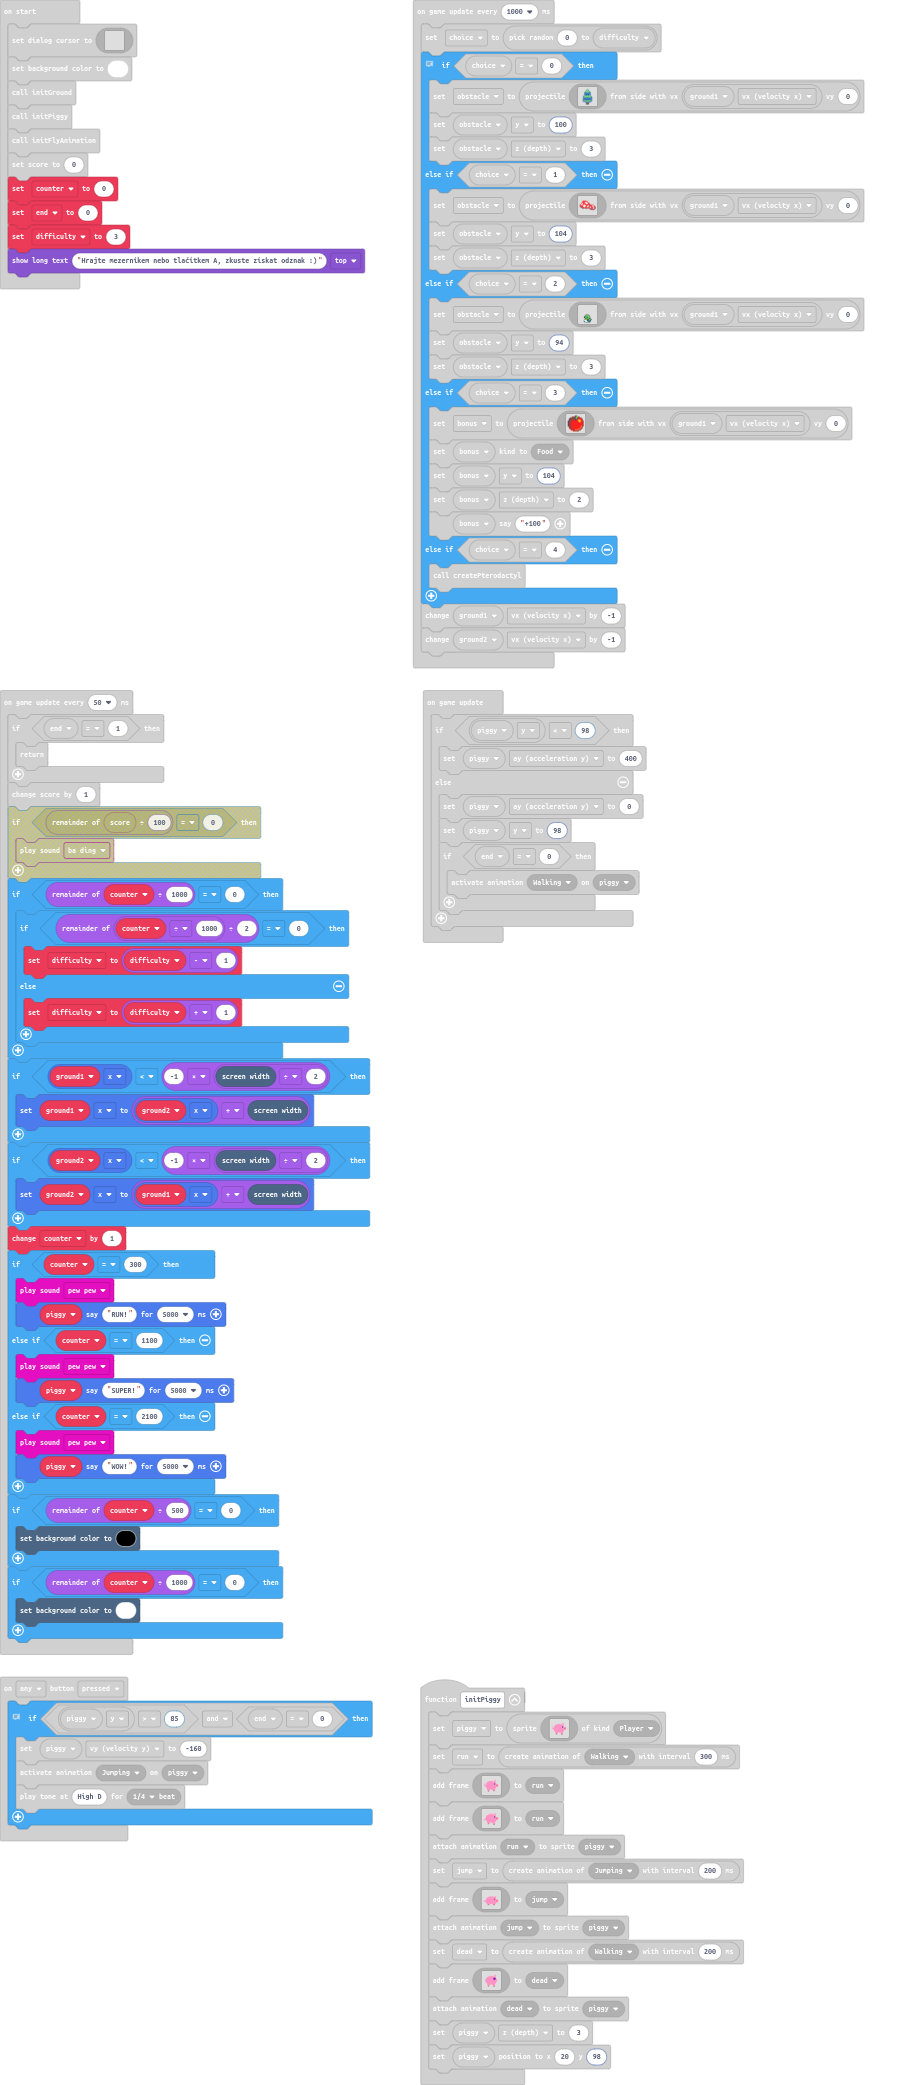
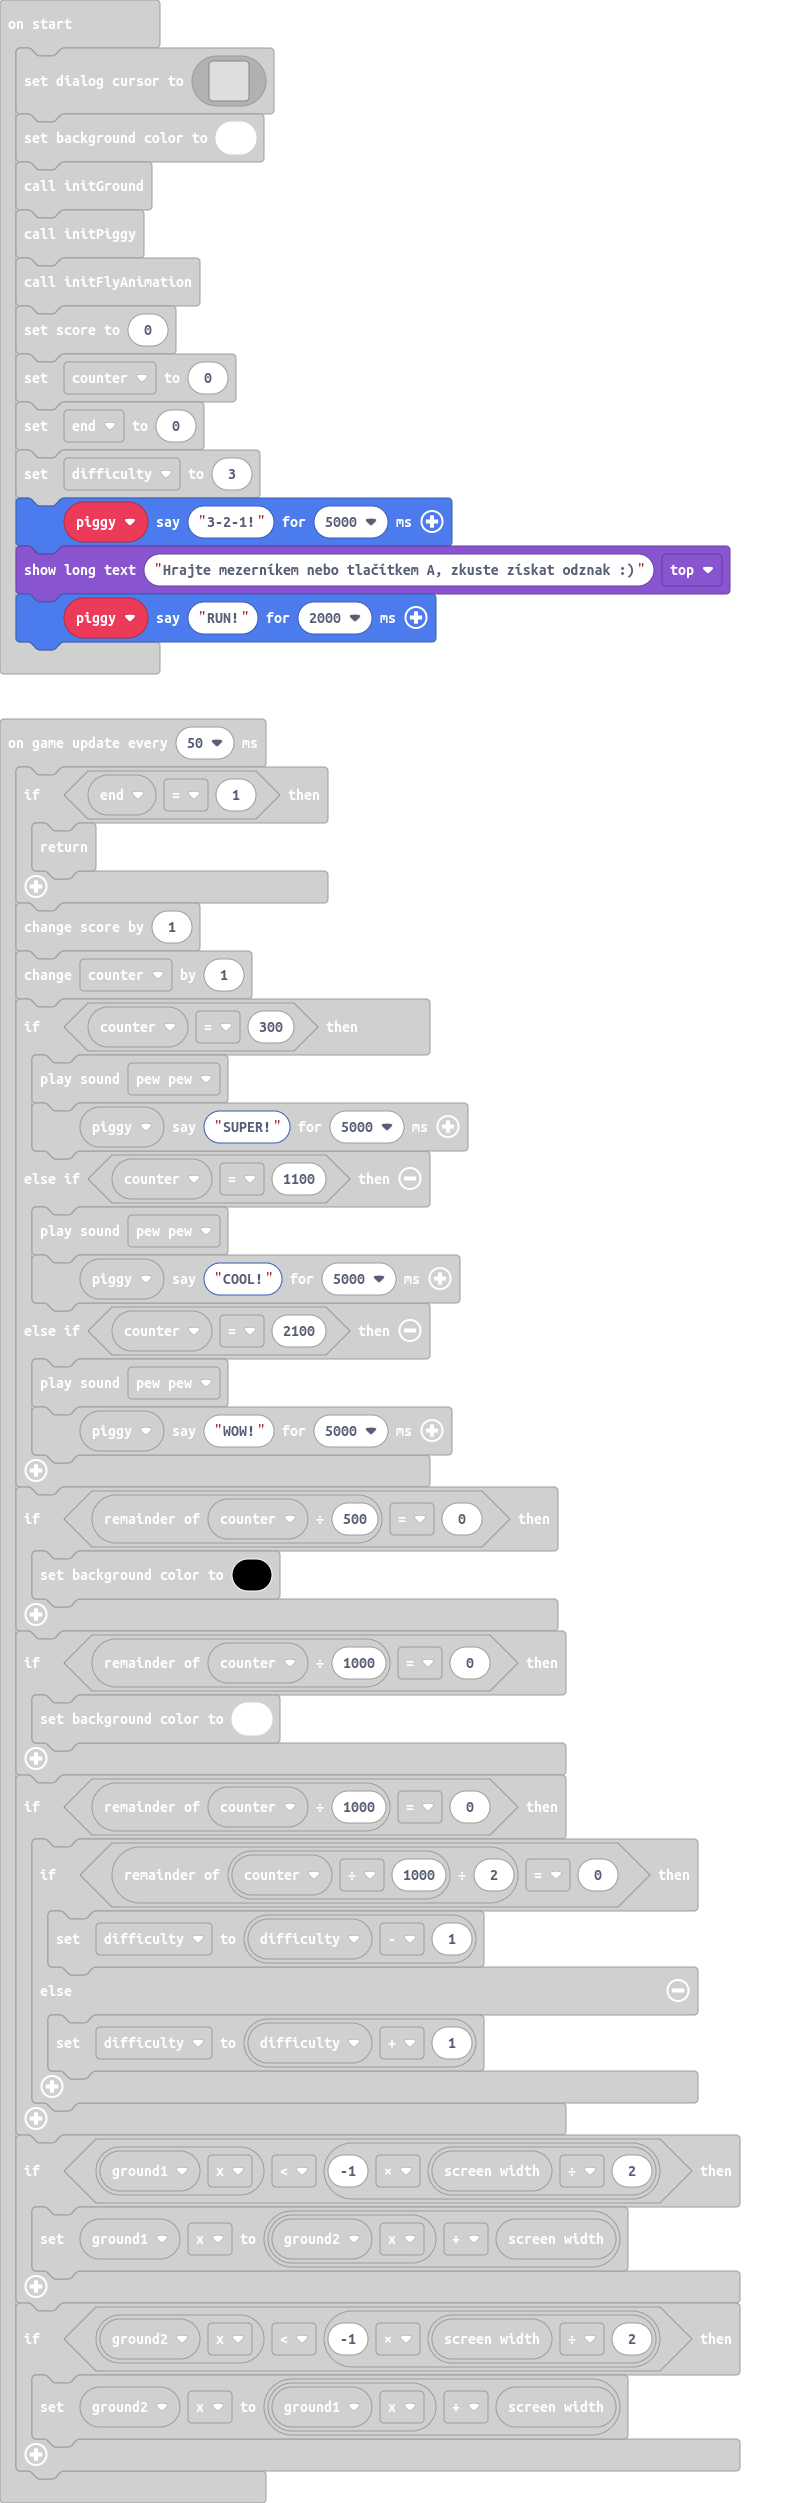
Update main.blocks, main.ts

diff --git a/main.ts b/main.ts
@@ -115,11 +115,11 @@ let timeSinceStart = 0
 let dead: animation.Animation = null
 let jump: animation.Animation = null
 let run: animation.Animation = null
-let piggy: Sprite = null
 let fly: animation.Animation = null
 let pterodactyl: Sprite = null
 let ground2: Sprite = null
 let ground1: Sprite = null
+let piggy: Sprite = null
 let end = 0
 game.setDialogCursor(img`
     . . . . . . . . . . . . . . . . 
@@ -147,7 +147,9 @@ info.setScore(0)
 let counter = 0
 end = 0
 let difficulty = 3
+piggy.say("3-2-1!")
 game.showLongText("Hrajte mezerníkem nebo tlačítkem A, zkuste získat odznak :)", DialogLayout.Top)
+piggy.say("RUN!", 2000)
 game.onUpdate(function () {
     if (piggy.y < 98) {
         piggy.ay = 400
@@ -167,10 +169,10 @@ game.onUpdateInterval(50, function () {
     counter += 1
     if (counter == 300) {
         music.pewPew.play()
-        piggy.say("RUN!", 5000)
+        piggy.say("SUPER!", 5000)
     } else if (counter == 1100) {
         music.pewPew.play()
-        piggy.say("SUPER!", 5000)
+        piggy.say("COOL!", 5000)
     } else if (counter == 2100) {
         music.pewPew.play()
         piggy.say("WOW!", 5000)
